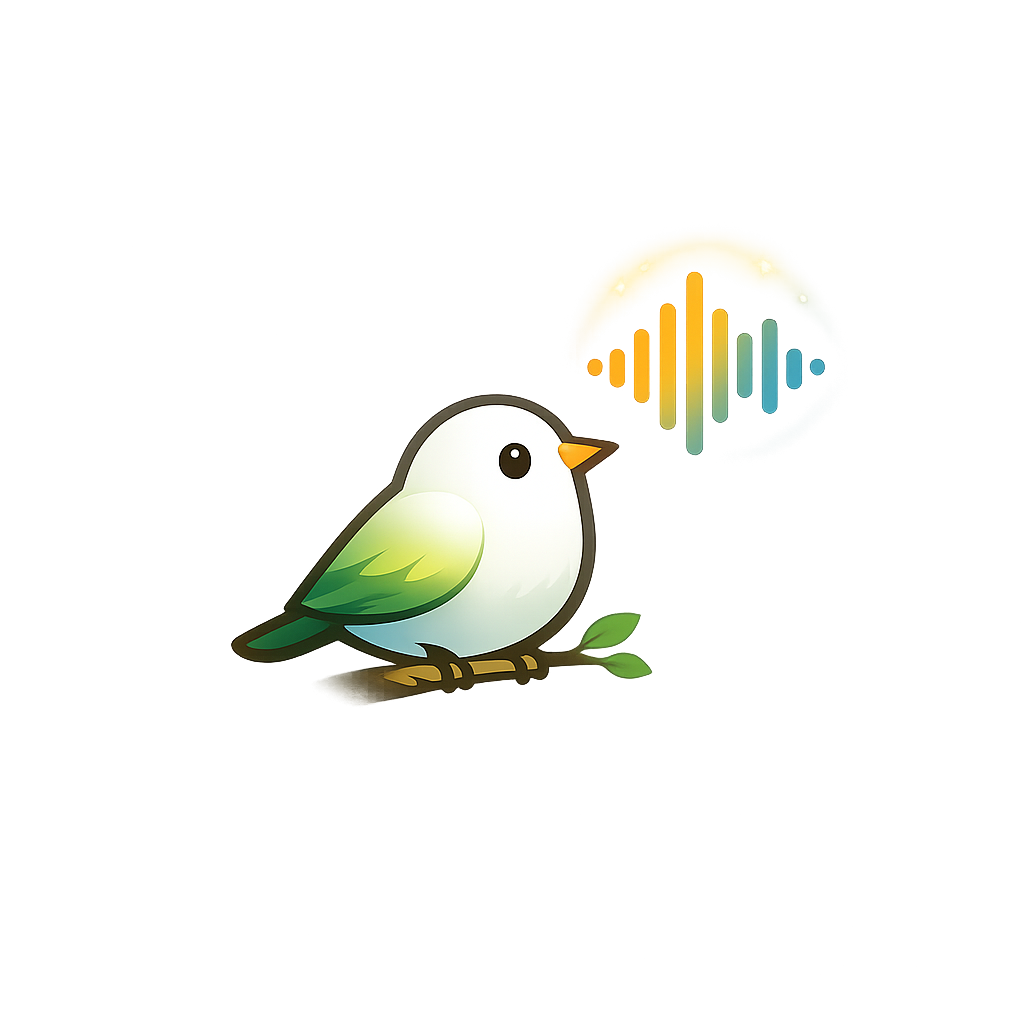
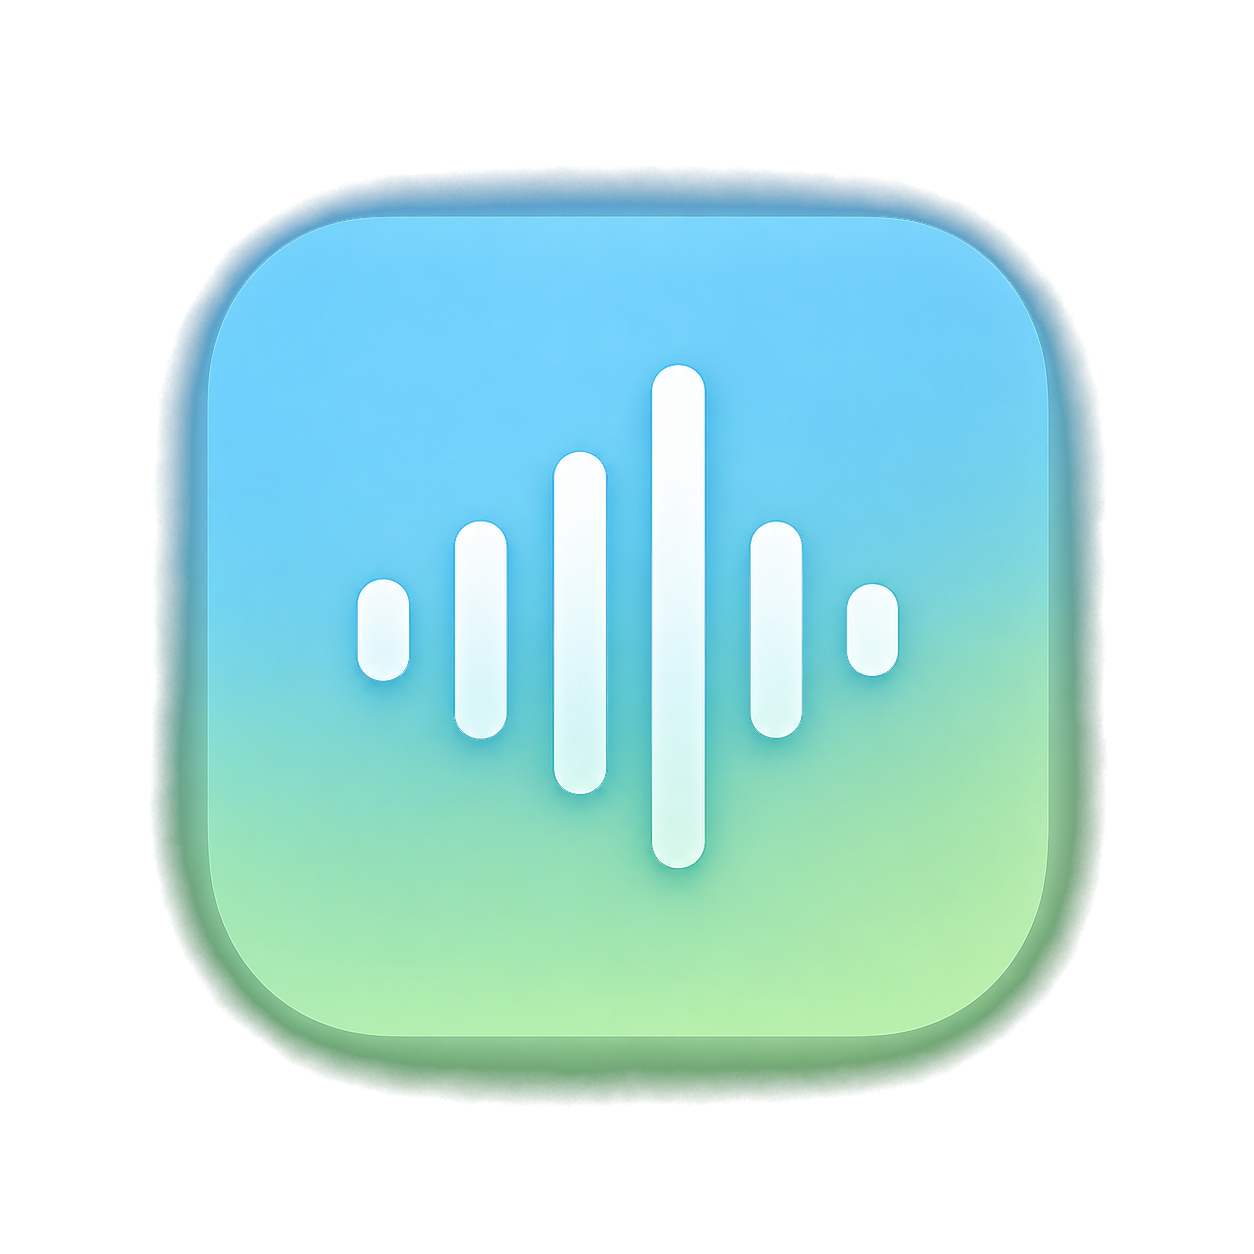
v0.6.4: 换新品牌图(声波)+ 气泡拖动修复 + 4 层玻璃视觉
新图: assets/app_icon.png 是 ChatGPT 生成的青绿声波条图标,
6 尺寸 app.ico 重生成; 主窗口录音按钮/托盘/气泡/关于全部用新图.

气泡拖动根因: -alpha 0.92 触发 Windows layered window, 经常丢鼠标
事件 (B1-Motion 收不到). 修复: 移除 -alpha, 改用纯 Canvas 4 层堆叠:
  L0 扩散阴影 (#d0d0d5 浅灰)
  L1 玻璃主体 (白/粉红/灰, 反映状态)
  L2 顶部月牙高光 (玻璃反光关键)
  L3 rim light (1px 蓝/红/灰描边 = 玻璃边缘折射光)
  L4 品牌图 (中心 56x56)
所有鼠标事件绑到 Toplevel 自身, 加屏幕边界保护, 拖动顺滑.

录音态: 品牌图隐藏, 改用中心 ■ 方块突出\"正在录\" + 3 圈柔和
粉红脉冲环扩散.

diff --git a/voice_input.py b/voice_input.py
@@ -1306,27 +1306,26 @@ class FloatingBubble:
     def _create(self):
         c = self.c
         s = self.SIZE
+        # 关键: 不用 -alpha (Windows layered window 会丢鼠标事件导致拖动失效)
+        # 玻璃感靠 Canvas 4 层堆叠模拟
         self.win = tk.Toplevel(self.root)
         self.win.overrideredirect(True)
         self.win.attributes("-topmost", True)
         self.win.geometry(f"{s}x{s}")
-        # 不再用 -transparentcolor (会让鼠标事件穿透 → 拖动失效)
-        # 改用 -alpha 0.92 玻璃感, Canvas bg 浅灰, 鼠标事件命中
-        try:
-            self.win.attributes("-alpha", 0.92)
-        except Exception:
-            pass
+        self.win.configure(bg="#e8e8ee")
         self.cv = tk.Canvas(self.win, width=s, height=s,
                             bg="#e8e8ee", highlightthickness=0, cursor="hand2")
         self.cv.pack()
-        # 外层阴影 (大圆, 极淡灰)
-        self._shadow = self.cv.create_oval(2, 4, s - 2, s - 0, fill="#e5e7eb", outline="")
-        # 玻璃主体: 白色
-        self._body = self.cv.create_oval(4, 4, s - 4, s - 4, fill="", outline="")
-        # 高光层 (玻璃反光, 顶部月牙)
-        self._highlight = self.cv.create_oval(12, 6, s - 12, s // 2 + 6,
-                                               fill="#f8f8fc", outline="")
-        # 品牌图: 中心 56x56 (v0.6.2 反馈: 46 太小了, 56 更醒目)
+        # L0 扩散阴影 (略大, 极淡)
+        self._shadow = self.cv.create_oval(0, 2, s, s + 4, fill="#d0d0d5", outline="")
+        # L1 玻璃主体 (状态色在此处反映)
+        self._body = self.cv.create_oval(3, 3, s - 3, s - 3, fill="", outline="")
+        # L2 顶部月牙高光 (玻璃反光关键)
+        self._highlight = self.cv.create_oval(10, 4, s - 10, s // 2 + 4,
+                                               fill="#ffffff", outline="")
+        # L3 rim light (1px 白色描边 = 玻璃边缘折射)
+        self._rim = self.cv.create_oval(3, 3, s - 3, s - 3, fill="", outline="", width=1)
+        # L4 品牌图 (中心 56x56)
         self._photo_id = None
         self._photo_ref = None
         if _brand_img is not None:
@@ -1335,24 +1334,22 @@ class FloatingBubble:
             bird.thumbnail((56, 56), Image.LANCZOS)
             self._photo_ref = ImageTk.PhotoImage(bird)
             self._photo_id = self.cv.create_image(s // 2, s // 2, image=self._photo_ref)
-        # 录音脉冲环: 柔和色调 (#fca5a5 / #fecaca / #fee2e2) — 不要浓
+        # 录音态: 中心 ■ 方块 (强调"正在录")
+        self._rec_dot = self.cv.create_rectangle(s//2-10, s//2-10, s//2+10, s//2+10,
+                                                 fill="#ffffff", outline="")
+        self.cv.itemconfigure(self._rec_dot, state="hidden")
+        # 录音脉冲环: 3 圈柔和粉红系
         pulse_colors = ["#fca5a5", "#fecaca", "#fee2e2"]
         for i in range(self._pulse_count):
             oval = self.cv.create_oval(0, 0, 0, 0, outline=pulse_colors[i], width=2)
             self.cv.itemconfigure(oval, state="hidden")
             self._pulses.append((oval, i * 0.33))
-        # 事件: 同时绑 win + cv, 防止 -alpha 区域的边缘不响应
-        for w in (self.win, self.cv):
-            w.bind("<ButtonPress-1>", self._on_press)
-            w.bind("<B1-Motion>", self._on_drag)
-            w.bind("<ButtonRelease-1>", self._on_release)
-            w.bind("<Button-3>", self._on_right_click)
-            w.bind("<Double-Button-1>", lambda e: self._show_main())
-        self._menu = tk.Menu(self.win, tearoff=0,
-                             bg=c["card"], fg=c["fg"],
-                             activebackground=c["accent"], activeforeground="#ffffff",
-                             font=("Microsoft YaHei UI", 9), relief=tk.FLAT, bd=1)
-        self.win.withdraw()
+        # 事件全部绑到 Toplevel 自身 (画布在 -alpha 模式下 hit-test 不稳)
+        self.win.bind("<ButtonPress-1>", self._on_press)
+        self.win.bind("<B1-Motion>", self._on_drag)
+        self.win.bind("<ButtonRelease-1>", self._on_release)
+        self.win.bind("<Button-3>", self._on_right_click)
+        self.win.bind("<Double-Button-1>", lambda e: self._show_main())
 
     # ─────────────── 状态 / 绘制 ───────────────
     def _current_state(self):
@@ -1369,18 +1366,27 @@ class FloatingBubble:
         if not force and sig == self._state_cache:
             return
         self._state_cache = sig
+        # 4 层玻璃配色: 主体 + 边缘 rim
         if mode == "empty":
-            # 禁用: 极淡灰白, 几乎与背景融合
-            self.cv.itemconfigure(self._body, fill="#e8eaed", outline="#cbd5e1", width=2)
-            self.cv.itemconfigure(self._highlight, state="hidden")
+            # 禁用: 极淡灰, 几乎与背景融合
+            self.cv.itemconfigure(self._body, fill="#ebedf0", outline="")
+            self.cv.itemconfigure(self._rim, outline="#cbd5e1", width=1)
+            self.cv.itemconfigure(self._highlight, fill="#f5f5f8")
         elif mode == "solid":
-            # 录音: 柔和粉红 (不要浓红), 浅红描边
-            self.cv.itemconfigure(self._body, fill="#fee2e2", outline="#fca5a5", width=2)
-            self.cv.itemconfigure(self._highlight, state="normal")
-        else:  # glass
-            # 待命: 白底 + 浅蓝描边 (不要浓蓝)
-            self.cv.itemconfigure(self._body, fill="#ffffff", outline="#bfdbfe", width=2)
-            self.cv.itemconfigure(self._highlight, state="normal")
+            # 录音: 柔和粉红 + 浅红边
+            self.cv.itemconfigure(self._body, fill="#fee2e2", outline="")
+            self.cv.itemconfigure(self._rim, outline="#fca5a5", width=2)
+            self.cv.itemconfigure(self._highlight, fill="#fafafc")
+        else:  # glass 待命
+            # 玻璃感: 白底 + 浅蓝边 + 顶部月牙高光
+            self.cv.itemconfigure(self._body, fill="#ffffff", outline="")
+            self.cv.itemconfigure(self._rim, outline="#bfdbfe", width=2)
+            self.cv.itemconfigure(self._highlight, fill="#fafafc")
+        # 录音态: 品牌图隐藏, 改显示 ■ 方块
+        if hasattr(self, "_photo_id") and self._photo_id is not None:
+            self.cv.itemconfigure(self._photo_id, state="hidden" if mode == "solid" else "normal")
+        if hasattr(self, "_rec_dot"):
+            self.cv.itemconfigure(self._rec_dot, state="normal" if mode == "solid" else "hidden")
         for oval, _ in self._pulses:
             self.cv.itemconfigure(oval, state="normal" if pulsing else "hidden")
 
@@ -1428,8 +1434,15 @@ class FloatingBubble:
         dy = e.y_root - self._drag_data["y"]
         if abs(dx) + abs(dy) > self.CLICK_THRESHOLD:
             self._drag_data["moved"] = True
+        if not self._drag_data["moved"]:
+            return
         x = self.win.winfo_x() + dx
         y = self.win.winfo_y() + dy
+        # 屏幕边界保护: 至少 5px 在屏内
+        sw = self.root.winfo_screenwidth()
+        sh = self.root.winfo_screenheight()
+        x = max(0, min(x, sw - self.SIZE))
+        y = max(0, min(y, sh - self.SIZE))
         self.win.geometry(f"+{x}+{y}")
         self._drag_data["x"] = e.x_root
         self._drag_data["y"] = e.y_root